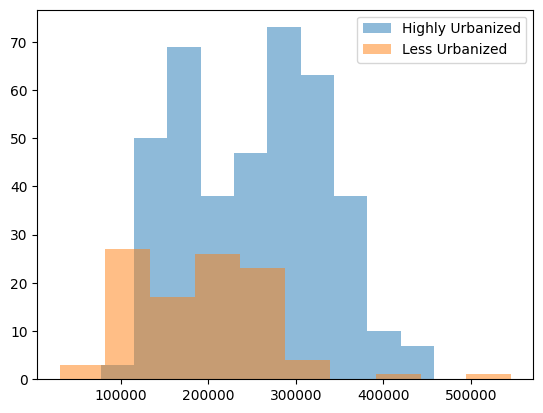
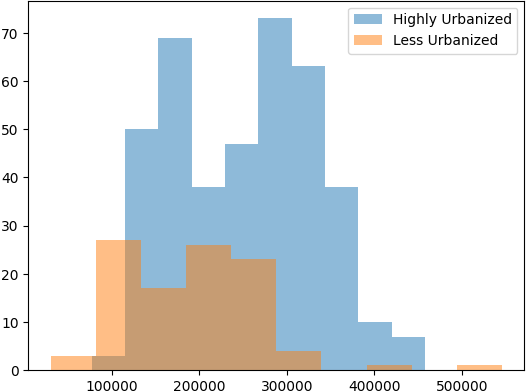
about us partial implementation + histo centering

diff --git a/index.html b/index.html
@@ -328,7 +328,7 @@
 								</svg>								  
 								<h3>House</h3>
 								<p>We check the normality to determine which test to use.</p>
-								<img src="images\stattesthisto\househisto.png">
+								<span class="image centered"><img src="images\stattesthisto\househisto.png"></span>
 								<p>Since our histogram fails to show a bell curve, we cannot assume normality of data. Hence we use the Mann-Whitney U test to obtain a p-value.</p>
 								<p>With a significance level of 0.05 and a p-value of 2.6985×10 −29, we reject our null hypothesis. Therefore, the price per sqm for houses in highly-urbanized areas are significantly different from less urbanized areas.</p>
 							</section>
@@ -394,6 +394,31 @@
 		<!-- Team -->
 			<article id="team" class="wrapper style4">
 				<div class="container medium">
+					<header>
+						<h2>About Us</h2>
+						<p>We are a team of 3 people from </p>
+					</header>
+					<div class = "row aln-center">
+						<div class = "col-4 col-6-medium col-12-small">						
+							<section class="box style1">
+								<span class="image fit"><img src="images/chase.png" alt="" /></span>
+								<h3 class="body"><strong>Chase Gonzaga</strong></h3>
+							</section>
+						</div>
+						<div class = "col-4 col-6-medium col-12-small">						
+							<section class="box style1 col-3">
+								<span class="image fit"><img src="images/ray.png" alt="" /></span>
+								<h3 class="body"><strong>Ray Nuñez</strong></h3>
+							</section>
+						</div>
+						<div class = "col-4 col-6-medium col-12-small">						
+							<section class="box style1 col-3 body">
+								<span class="image fit"><img src="images/lara.png" alt="" /></span>
+								<h3><strong>Lara Punsalan</strong></h3>
+								<p>asdasdasdasdasd</p>
+							</section>
+						</div>
+					</div>
 					<!-- <header>
 						<h2>We'd like to hear from you.</h2>
 						<p>You can add more information about the team members here.</p>

diff --git a/assets/css/main.css b/assets/css/main.css
@@ -2010,8 +2010,7 @@ input, select, textarea {
 
 		.wrapper.style4 {
 			background-color: #303030;
-			color: #999;
-			text-shadow: -1px -1px 0px #181818;
+			color: #fff;
 		}
 
 			.wrapper.style4 h1, .wrapper.style4 h2, .wrapper.style4 h3, .wrapper.style4 h4, .wrapper.style4 h5, .wrapper.style4 h6 {
@@ -2137,16 +2136,15 @@ input, select, textarea {
 		padding: 10em 0 10em 0;
 	}
 
-		#methods .image {
-			border-radius: 100%;
-			width: 20em;
-			height: 20em;
-			margin: 0;
+		#methods .image img 
+		{
+			
+			display: block;
+			margin-left: auto;
+			margin-right: auto;
+			width: 100%;
 		}
 
-			#methods .image img {
-				border-radius: 100%;
-			}
 	
 	#data {
 		padding: 10em 0 10em 0;
@@ -2182,6 +2180,15 @@ input, select, textarea {
 			width:50%;
 			float: left;
 		}
+
+	#team .body {
+		margin-top:0.5em;
+		color: #303030
+	}
+
+	#team .image img {
+		border-radius: 100%;
+	}
 
 	#contact footer {
 		font-size: 0.9em;

diff --git a/css/main.css b/css/main.css
@@ -2006,6 +2006,7 @@ input, select, textarea {
 		.wrapper.style3 {
 			background-color: #f4f4f4;
 			text-shadow: 1px 1px 0px #fff;
+			color: #303030
 		}
 
 		.wrapper.style4 {
@@ -2183,6 +2184,13 @@ input, select, textarea {
 			float: left;
 		}
 
+	#team .body {
+		color: #303030
+	}
+
+	#team .container {
+		border-radius: 50%;
+	}
 	#contact footer {
 		font-size: 0.9em;
 	}
